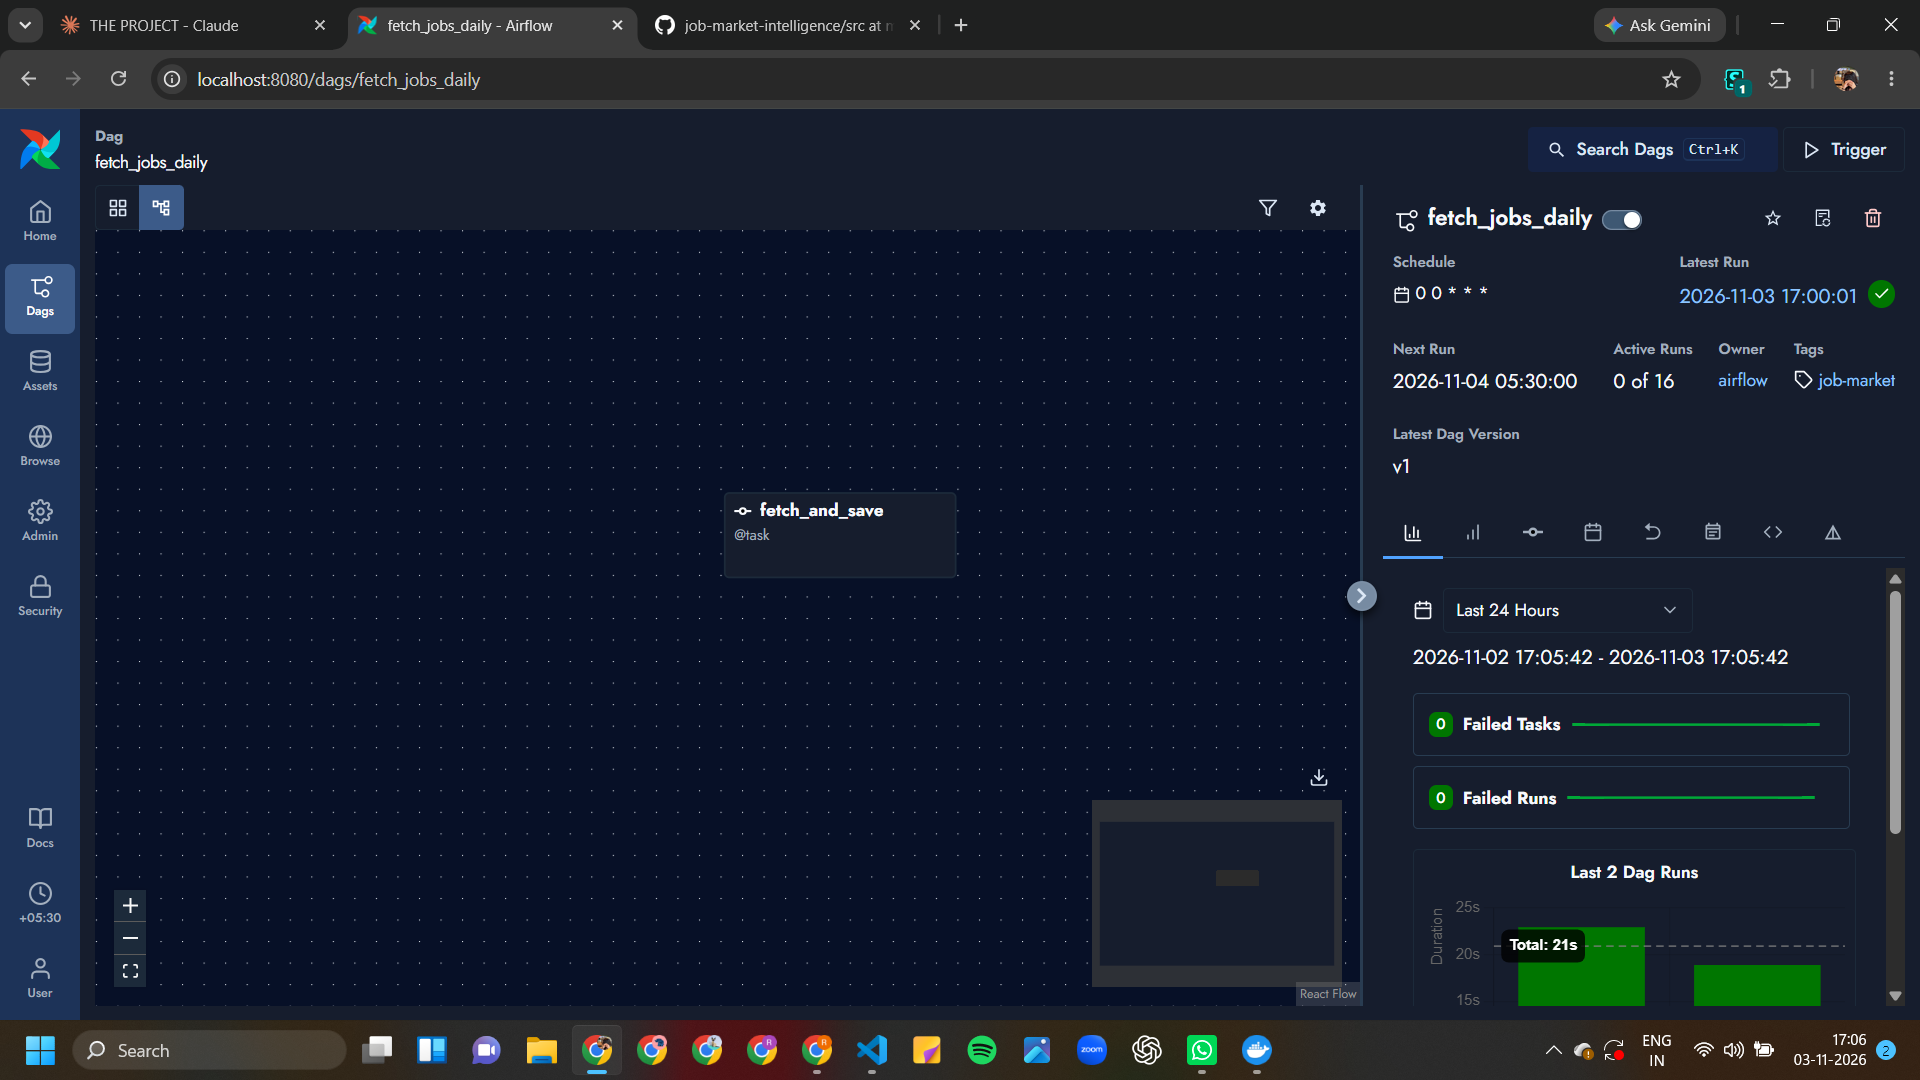
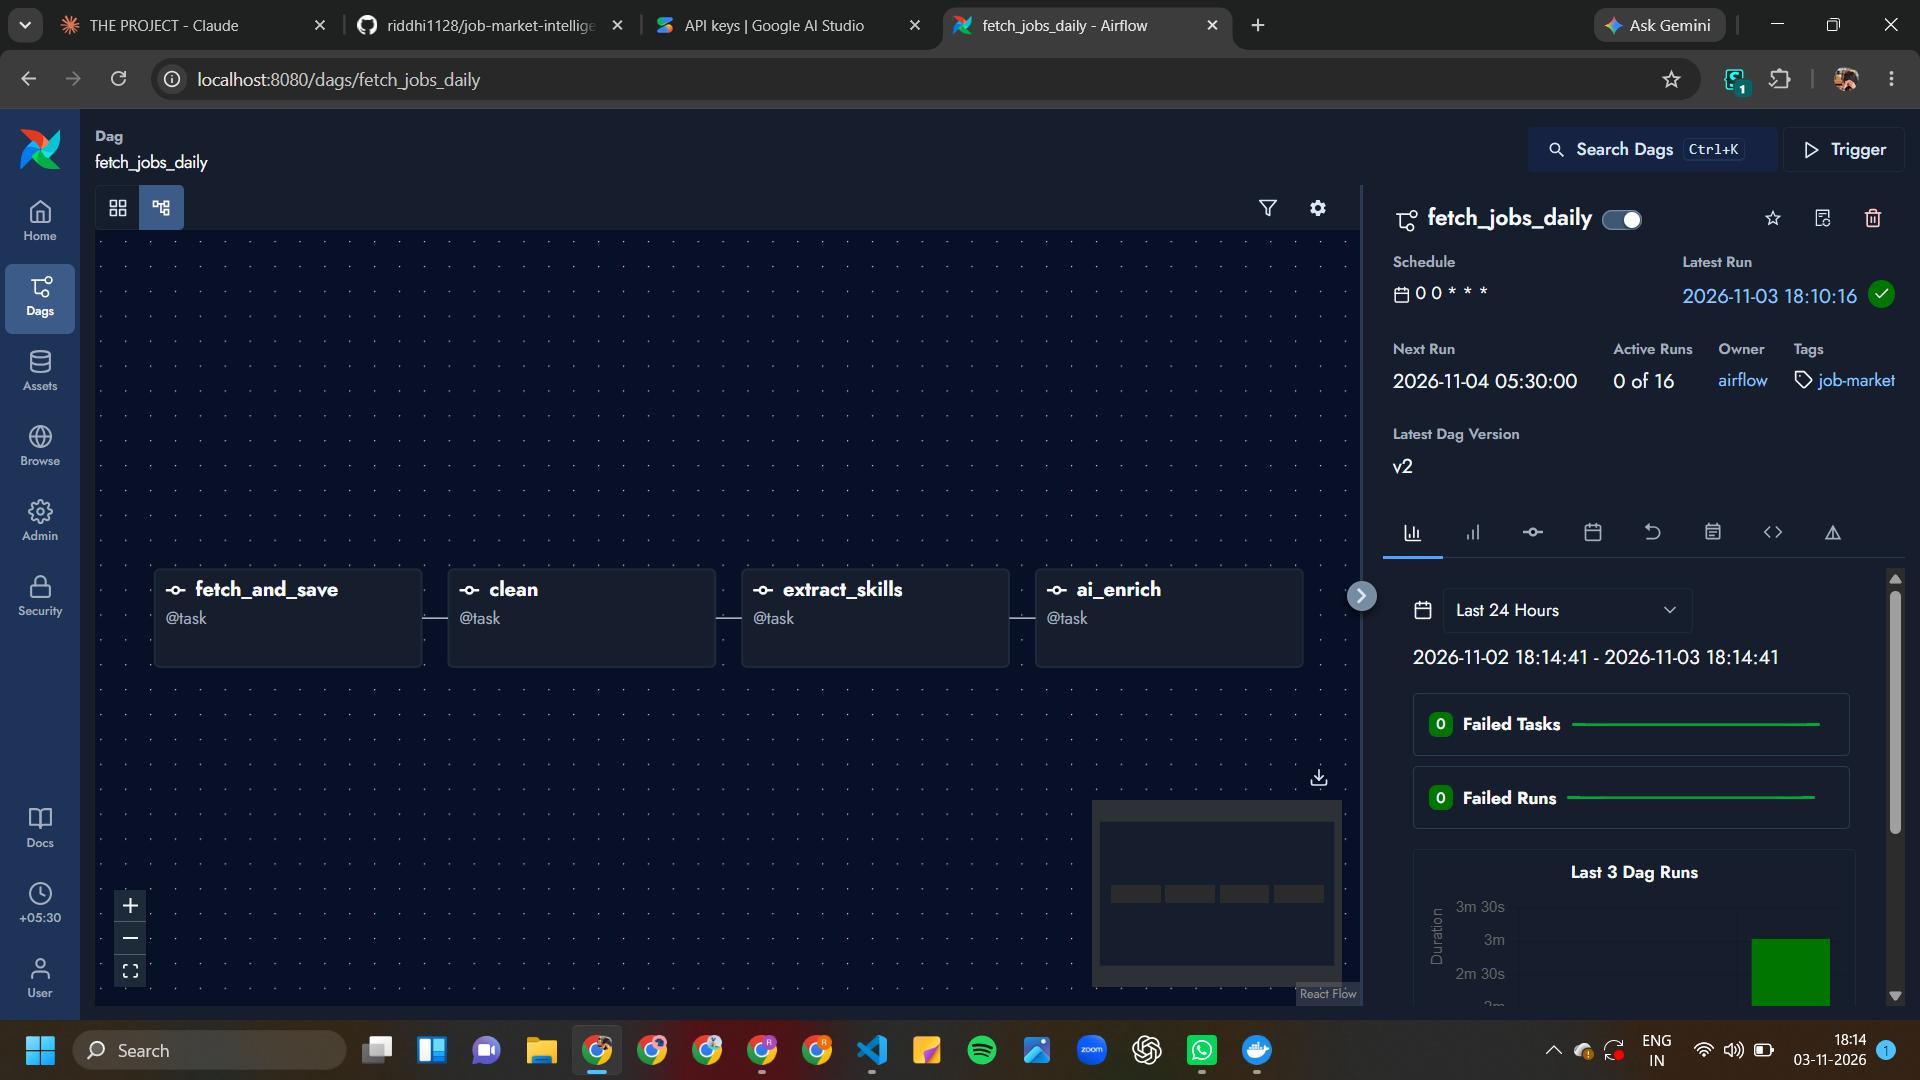
Add AI enrichment task

diff --git a/src/ai_enrich.py b/src/ai_enrich.py
@@ -1,0 +1,92 @@
+import json
+import os
+import sqlite3
+import time
+from datetime import datetime, timezone
+
+from dotenv import load_dotenv
+from google import genai
+from google.genai import types
+
+load_dotenv()
+
+MODEL = os.getenv("GEMINI_MODEL", "gemini-3.5-flash-lite")
+MAX_JOBS_PER_RUN = 20
+PAUSE_SECONDS = 7
+
+PROMPT = """Read this job posting and reply with JSON only, using these keys:
+"seniority": one of "entry", "mid", "senior", "unknown"
+"entry_friendly": true if a person with 0 to 2 years of experience could reasonably apply, else false
+"years_experience": the minimum years of experience required, as a whole number, or null if not stated
+"required_skills": a list of up to 10 required skills, short lowercase names
+"summary": one short sentence about the role
+
+Job title: {title}
+Job description: {description}"""
+
+
+def ask(client, title, description):
+    response = client.models.generate_content(
+        model=MODEL,
+        contents=PROMPT.format(title=title, description=(description or "")[:3000]),
+        config=types.GenerateContentConfig(response_mime_type="application/json"),
+    )
+    return json.loads(response.text)
+
+
+def to_int(value):
+    try:
+        return int(value)
+    except (TypeError, ValueError):
+        return None
+
+
+def run():
+    client = genai.Client(api_key=os.getenv("GEMINI_API_KEY"))
+    con = sqlite3.connect("data/jobs.db")
+    con.execute(
+        """create table if not exists job_ai (
+            source text, job_id text, seniority text, entry_friendly integer,
+            years_experience integer, required_skills text, summary text,
+            model text, processed_at text,
+            primary key (source, job_id))"""
+    )
+
+    todo = con.execute(
+        """select source, job_id, title, description from jobs j
+           where not exists (select 1 from job_ai a
+                             where a.source = j.source and a.job_id = j.job_id)
+           order by posted_at desc limit ?""",
+        (MAX_JOBS_PER_RUN,),
+    ).fetchall()
+    print(f"{len(todo)} new jobs to read")
+
+    for source, job_id, title, description in todo:
+        try:
+            r = ask(client, title, description)
+        except Exception as e:
+            print(f"Stopped at '{title}': {e}")
+            break
+        con.execute(
+            "insert or replace into job_ai values (?,?,?,?,?,?,?,?,?)",
+            (
+                source,
+                job_id,
+                r.get("seniority"),
+                int(bool(r.get("entry_friendly"))),
+                to_int(r.get("years_experience")),
+                ", ".join(r.get("required_skills") or []),
+                r.get("summary"),
+                MODEL,
+                datetime.now(timezone.utc).isoformat(),
+            ),
+        )
+        con.commit()
+        print(f"{title}: {r.get('seniority')}")
+        time.sleep(PAUSE_SECONDS)
+
+    con.close()
+
+
+if __name__ == "__main__":
+    run()

diff --git a/dags/fetch_jobs_dag.py b/dags/fetch_jobs_dag.py
@@ -33,8 +33,15 @@ def fetch_jobs_daily():
 
         run()
 
+    @task
+    def ai_enrich():
+        from src.ai_enrich import run
+
+        run()
+
     fetched = fetch_and_save()
     cleaned = clean()
-    fetched >> cleaned >> extract_skills()
-    
+    fetched >> cleaned >> extract_skills() >> ai_enrich()
+
+
 fetch_jobs_daily()
